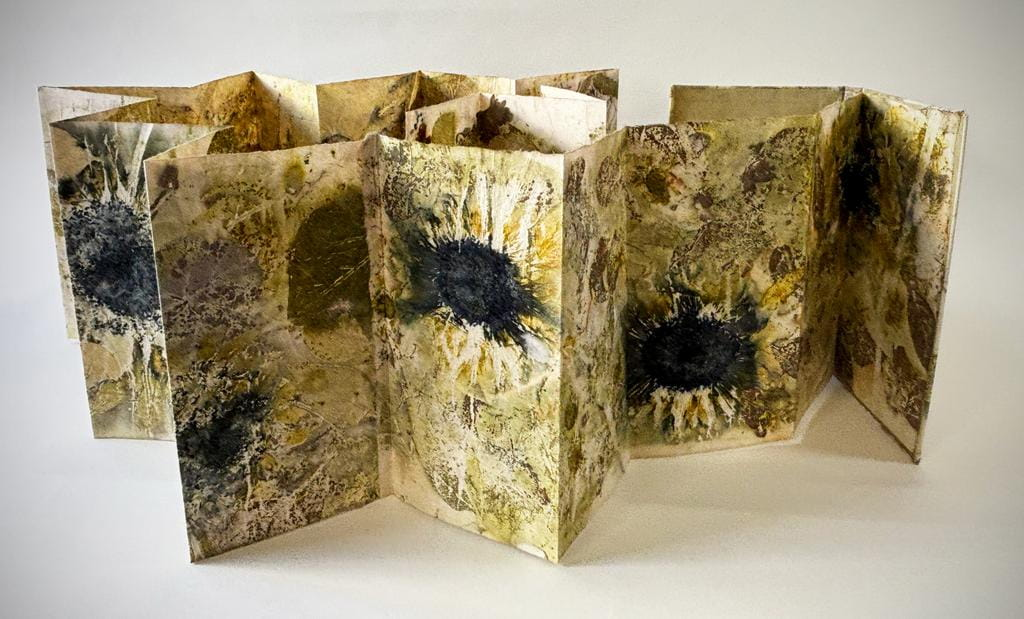
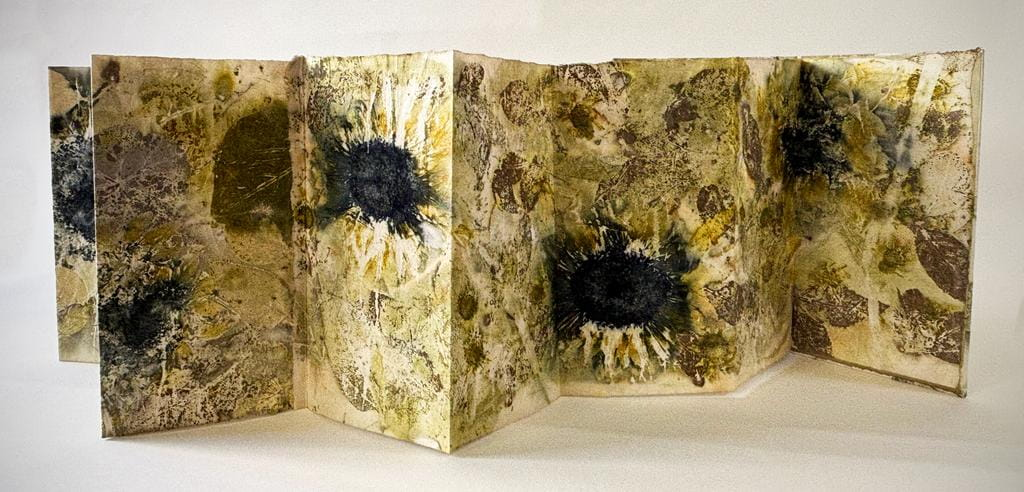
new version deployed

diff --git a/gallery/tournesol/index.html b/gallery/tournesol/index.html
@@ -1,0 +1,137 @@
+<!DOCTYPE html>
+<html lang="en-US">
+<head>
+  <title> servane briand </title>
+  <link rel="stylesheet" href="/static/css/main.css">
+  
+  <meta charset="utf-8">
+  <meta name="viewport" content="width=device-width, initial-scale=1">
+  <meta name="description" content=" Servane Briand Exhibits ">
+</head>
+<body>
+    <div id="top" class="container">
+		<header>
+		<!-- navbar -->
+			<div class="logo">
+				<a class="logo__link" href="/"><img src="/static/img/nameheader.svg"/></a>
+			</div>
+			<nav class="nav"> 
+				<ul class="nav__links">
+					</li>
+					<li class="links__item"><a class="links__link " href="/gallery">works</a></li>
+					<li class="links__item"><a class="links__link "href="/exhibits">exhibits</a></li>
+					<li class="links__item"><a class="links__link " href="/profile"> profile </a></li>
+					<li class="links__item"><a class="links__link " href="/contact"> contact </a></li>
+				</ul>
+			</nav>
+	</header>
+
+	<!-- content -->
+	<section class="content-wrapper">
+	  
+<h1 class="project__title">Tournesol</h1>
+<img 
+	class="project__image project__image--main"
+	alt="main image for Tournesol" 
+	src="/static/img/projects/tournesol/1.jpg"
+	srcset="/static/img/projects/tournesol/1-sm.jpg 480w, /static/img/projects/tournesol/1-md.jpg 640w, /static/img/projects/tournesol/1-lg.jpg 1024w"
+	onerror="this.onerror=null;this.srcset=''" 
+/>
+
+<div class="project-content__wrapper">
+<div class="project__details"> 
+	
+		<h2 class="project-detail__header"> Binding </h2>
+		<p class="project-detail"> Accordion book in a case binding</p>
+		
+	
+
+	
+
+	
+	<h2 class="project-detail__header"> Dimensions </h2>
+	<p class="project-detail"> 21 x 11.5 x 2 cm closed </p>
+	
+
+	
+	
+		<h2 class="project-detail__header"> Materials </h2>
+		<p class="project-detail"> hanji, linen, botanical prints and organic dyes, CBD millboard</p>
+	
+	 
+</div>
+<div class="project__description" />
+		<p>I continued my investigations in botanical printing on Korean and Japanese papers. As summer progressed and sunflowers showed up at my farmers' market, I started adding them to prints. They are a bit more difficult to handle as they are so thick compared to other flowers but I loved the results I was getting and made several prints using both sides of the paper. Then I printed on linen so I could make book cloth for a book. Et voilà:)</p>
+</div>
+</div> 
+<section id="images">
+	
+	
+	<img 
+		class="project__image"
+		alt="image 1 for Tournesol" 
+		src="/static/img/projects/tournesol/3.jpg"
+		srcset="/static/img/projects/tournesol/3-sm.jpg 480w, /static/img/projects/tournesol/3-md.jpg 640w, /static/img/projects/tournesol/3-lg.jpg 1024w"
+		onerror="this.onerror=null;this.srcset=''" 
+
+	/>
+
+	<img 
+		class="project__image"
+		alt="image 2 for Tournesol" 
+		src="/static/img/projects/tournesol/2.jpg"
+		srcset="/static/img/projects/tournesol/2-sm.jpg 480w, /static/img/projects/tournesol/2-md.jpg 640w, /static/img/projects/tournesol/2-lg.jpg 1024w"
+		onerror="this.onerror=null;this.srcset=''" 
+
+	/>
+
+	<img 
+		class="project__image"
+		alt="image 3 for Tournesol" 
+		src="/static/img/projects/tournesol/6.jpg"
+		srcset="/static/img/projects/tournesol/6-sm.jpg 480w, /static/img/projects/tournesol/6-md.jpg 640w, /static/img/projects/tournesol/6-lg.jpg 1024w"
+		onerror="this.onerror=null;this.srcset=''" 
+
+	/>
+
+	<img 
+		class="project__image"
+		alt="image 4 for Tournesol" 
+		src="/static/img/projects/tournesol/7.jpg"
+		srcset="/static/img/projects/tournesol/7-sm.jpg 480w, /static/img/projects/tournesol/7-md.jpg 640w, /static/img/projects/tournesol/7-lg.jpg 1024w"
+		onerror="this.onerror=null;this.srcset=''" 
+
+	/>
+
+	<img 
+		class="project__image"
+		alt="image 5 for Tournesol" 
+		src="/static/img/projects/tournesol/5.jpg"
+		srcset="/static/img/projects/tournesol/5-sm.jpg 480w, /static/img/projects/tournesol/5-md.jpg 640w, /static/img/projects/tournesol/5-lg.jpg 1024w"
+		onerror="this.onerror=null;this.srcset=''" 
+
+	/>
+
+	<img 
+		class="project__image"
+		alt="image 6 for Tournesol" 
+		src="/static/img/projects/tournesol/4.jpg"
+		srcset="/static/img/projects/tournesol/4-sm.jpg 480w, /static/img/projects/tournesol/4-md.jpg 640w, /static/img/projects/tournesol/4-lg.jpg 1024w"
+		onerror="this.onerror=null;this.srcset=''" 
+
+	/>
+
+</section>
+<div class="return-arrow__wrapper">
+	<a class="return-arrow__link"href="/gallery#2024"><span class="return-arrow">&larr;</span> Back to Projects</a>
+</div>
+
+
+	</section>
+	<footer>
+		<p class="footer__credits">Site designed by <a class="credit" href="https://samuelmignot.com" target="_blank">Samuel Mignot</a></p>
+	</footer>
+	</div>
+      
+ </body>
+</html>

diff --git a/gallery/index.html b/gallery/index.html
@@ -137,6 +137,13 @@
 	</div>
 	
 	<div class="proj__wrapper">
+	<a class="project-link" href="/gallery/tournesol/">
+	  <img alt="image of Tournesol" class="image" src="/static/img/projects/tournesol/thumbnail.jpg" />
+	</a>
+	<p class="proj__title">Tournesol</p>
+	</div>
+	
+	<div class="proj__wrapper">
 	<a class="project-link" href="/gallery/trou_d%27eau/">
 	  <img alt="image of Trou d&#39;Eau" class="image" src="/static/img/projects/trou-deau/thumbnail.jpg" />
 	</a>
